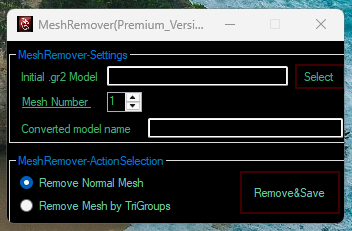
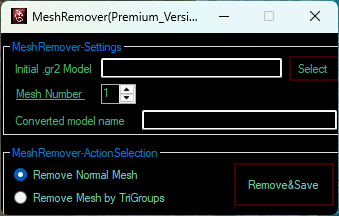
up

diff --git a/404.html b/404.html
@@ -1,0 +1,125 @@
+<!DOCTYPE html>
+<html lang="en">
+<head>
+  <meta charset="UTF-8" />
+  <meta name="viewport" content="width=device-width, initial-scale=1.0"/>
+  <title>404 | Terminal Breach</title>
+  <style>
+    * { margin: 0; padding: 0; box-sizing: border-box; }
+    body {
+      background: black;
+      color: #00ff66;
+      font-family: 'Courier New', monospace;
+      display: flex;
+      flex-direction: column;
+      align-items: center;
+      justify-content: center;
+      height: 100vh;
+      overflow: hidden;
+      position: relative;
+    }
+
+    .glow {
+      text-shadow: 0 0 5px #00ff66, 0 0 10px #00ff66, 0 0 20px #00ff66;
+    }
+
+    h1 {
+      font-size: 6rem;
+      margin-bottom: 1rem;
+      animation: glitch 1.2s infinite;
+    }
+
+    p {
+      font-size: 1.4rem;
+      margin-bottom: 2rem;
+      white-space: pre;
+      animation: type 4s steps(40) 1;
+      overflow: hidden;
+      border-right: 2px solid #00ff66;
+    }
+
+    @keyframes glitch {
+      0% { transform: translate(0); }
+      20% { transform: translate(-1px, 1px); }
+      40% { transform: translate(1px, -1px); }
+      60% { transform: translate(-2px, 2px); }
+      80% { transform: translate(2px, -2px); }
+      100% { transform: translate(0); }
+    }
+
+    @keyframes type {
+      from { width: 0 }
+      to { width: 100% }
+    }
+
+    a {
+      padding: 10px 25px;
+      background: none;
+      border: 2px solid #00ff66;
+      color: #00ff66;
+      text-decoration: none;
+      font-weight: bold;
+      transition: all 0.3s ease;
+      cursor: pointer;
+      box-shadow: 0 0 20px #00ff66;
+    }
+
+    a:hover {
+      background: #00ff66;
+      color: #000;
+      box-shadow: 0 0 40px #00ff66;
+    }
+
+    canvas {
+      position: absolute;
+      top: 0;
+      left: 0;
+      z-index: -1;
+    }
+  </style>
+</head>
+<body>
+  <canvas id="matrix"></canvas>
+
+  <h1 class="glow">404</h1>
+  <p id="terminal">[SYSTEM ERROR] The page you're looking for does not exist. Redirect protocol engaged...</p>
+  <a href="/">Return to Mainframe</a>
+
+  <script>
+    // Matrix background effect
+    const canvas = document.getElementById("matrix");
+    const ctx = canvas.getContext("2d");
+
+    canvas.height = window.innerHeight;
+    canvas.width = window.innerWidth;
+
+    let chars = "010101010101";
+    chars = chars.split("");
+
+    const font_size = 14;
+    const columns = canvas.width / font_size;
+    const drops = Array.from({ length: columns }).fill(1);
+
+    function drawMatrix() {
+      ctx.fillStyle = "rgba(0, 0, 0, 0.05)";
+      ctx.fillRect(0, 0, canvas.width, canvas.height);
+
+      ctx.fillStyle = "#00ff66";
+      ctx.font = font_size + "px monospace";
+
+      for (let i = 0; i < drops.length; i++) {
+        const text = chars[Math.floor(Math.random() * chars.length)];
+        ctx.fillText(text, i * font_size, drops[i] * font_size);
+
+        if (drops[i] * font_size > canvas.height && Math.random() > 0.975) {
+          drops[i] = 0;
+        }
+
+        drops[i]++;
+      }
+    }
+
+    setInterval(drawMatrix, 33);
+  </script>
+</body>
+</html>

diff --git a/index.html b/index.html
@@ -51,19 +51,19 @@
 					<!-- Navigation -->
 					<div class="navbar-nav">
 						<a href="#" class="nav-item" onclick="renderWelcomeContent()">
-						<span class="nav-text">Welcome</span>
+						<span class="nav-text"><i class="fas fa-home"></i> Welcome</span>
 						<span class="nav-indicator"></span>
 						</a>
 						<a href="#" class="nav-item" onclick="loadAllAssets()">
-						<span class="nav-text">Assets</span>
+						<span class="nav-text"><i class="fas fa-cube"></i> Assets</span>
 						<span class="nav-indicator"></span>
 						</a>
 						<a href="#" class="nav-item" onclick="loadContent('tutorials')">
-						<span class="nav-text">Tutorials</span>
+						<span class="nav-text"><i class="fas fa-play"></i> Tutorials</span>
 						<span class="nav-indicator"></span>
 						</a>
 						<a href="#" class="nav-item" onclick="loadContent('tools')">
-						<span class="nav-text">Tools</span>
+						<span class="nav-text"><i class="fas fa-tools"></i> Tools</span>
 						<span class="nav-indicator"></span>
 						</a>
 					</div>
